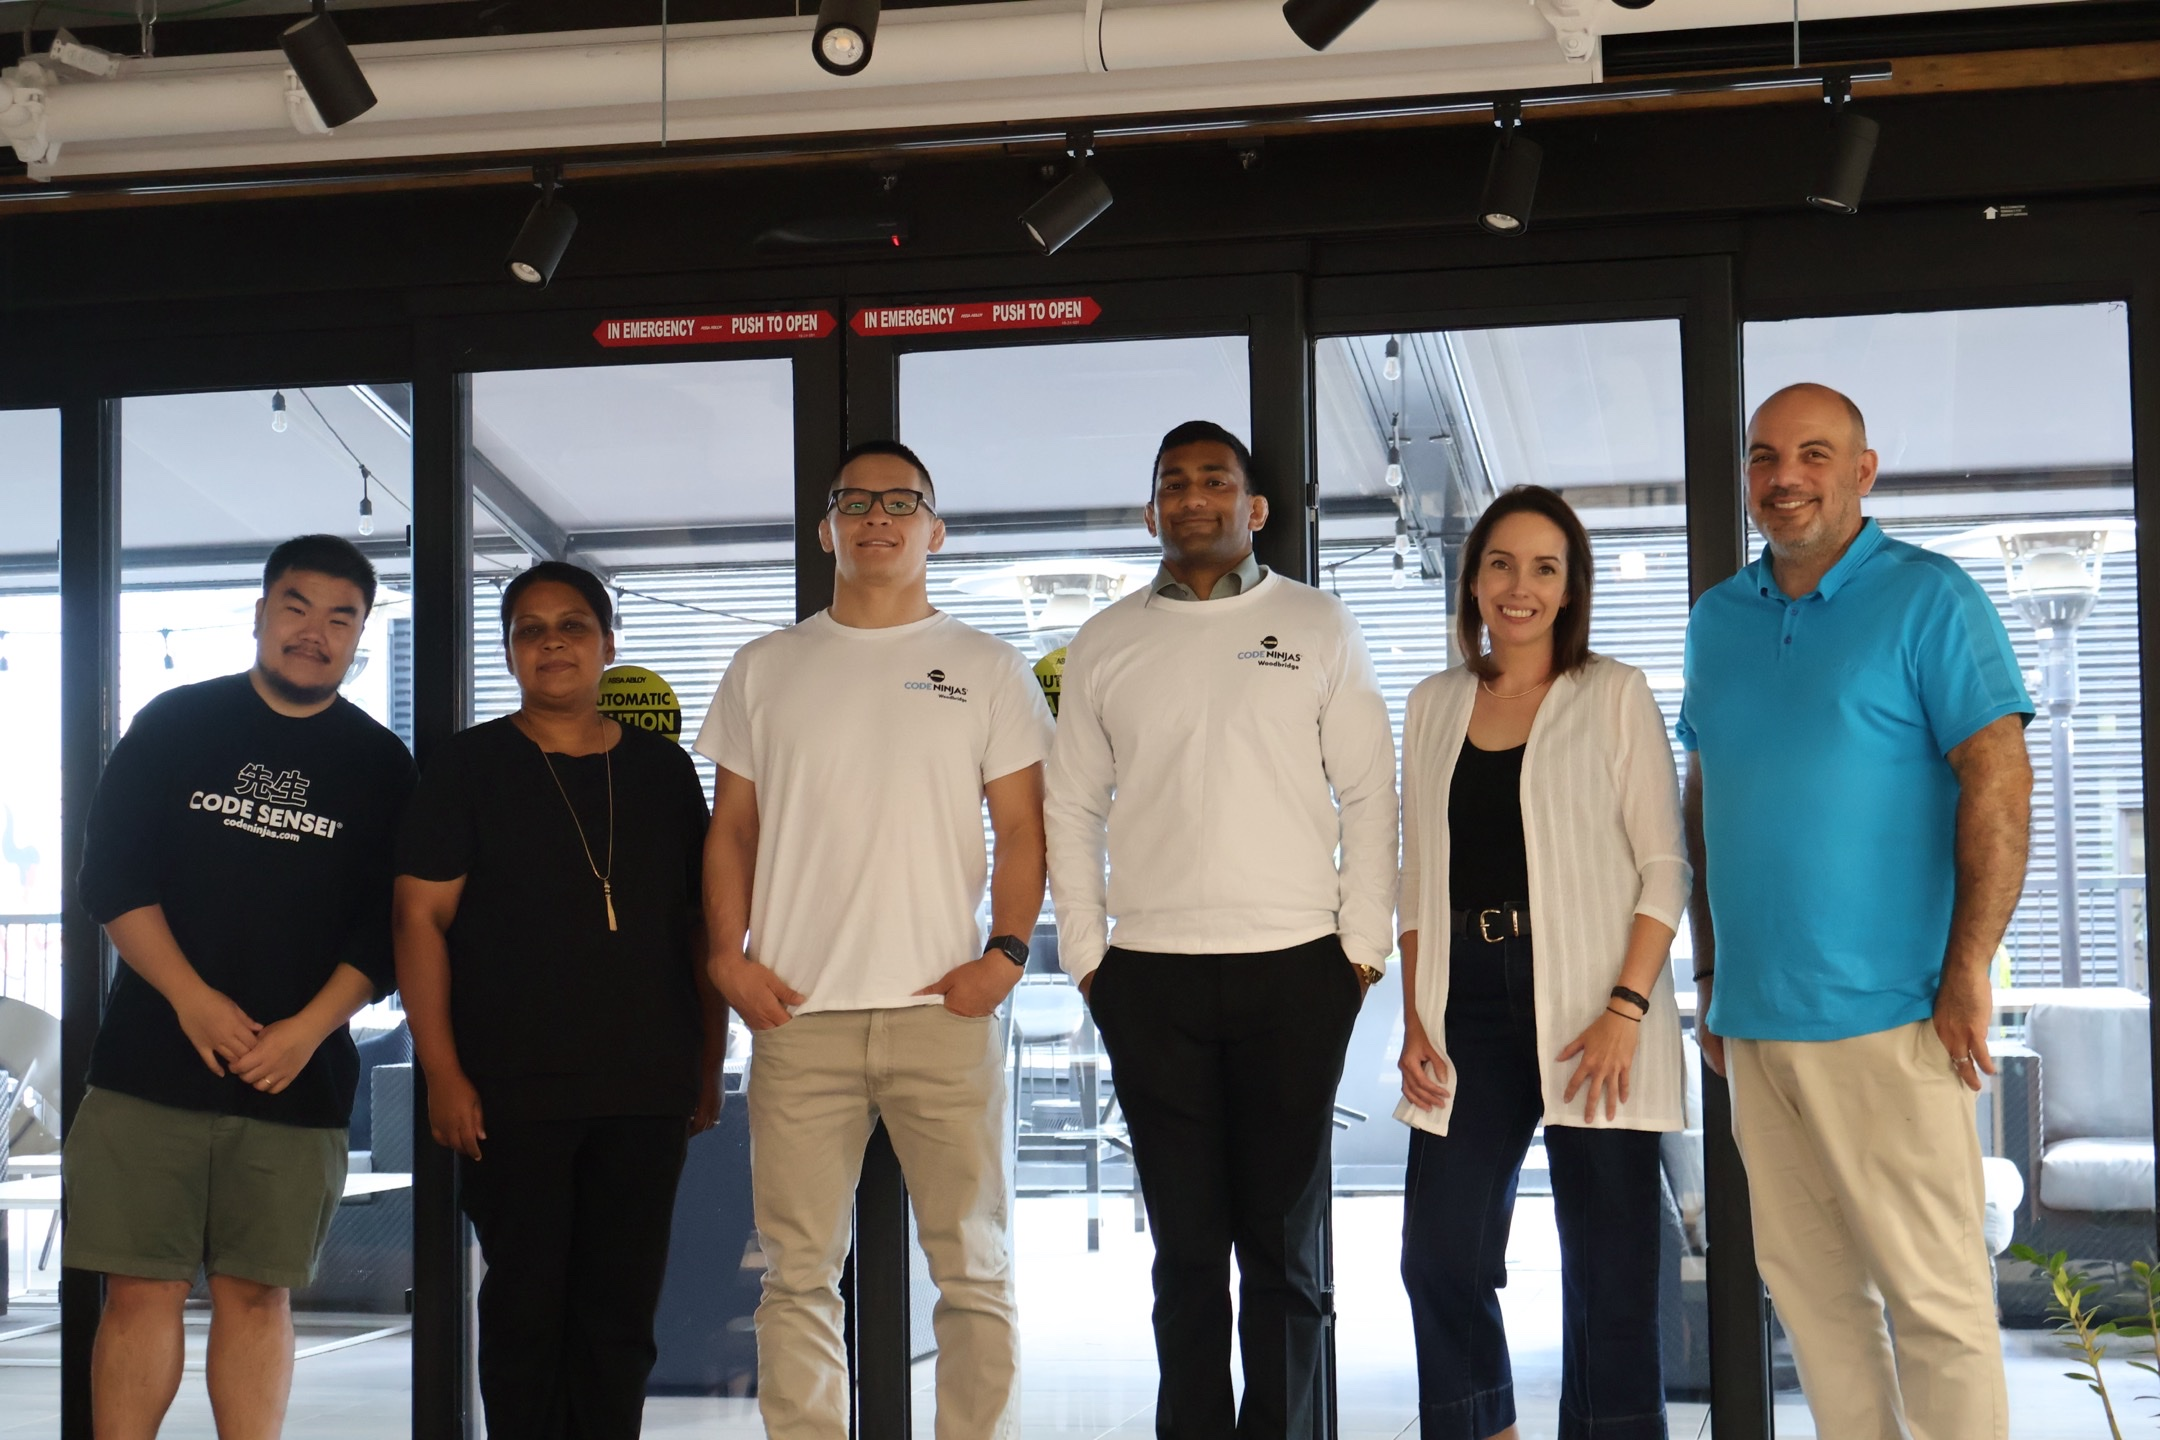
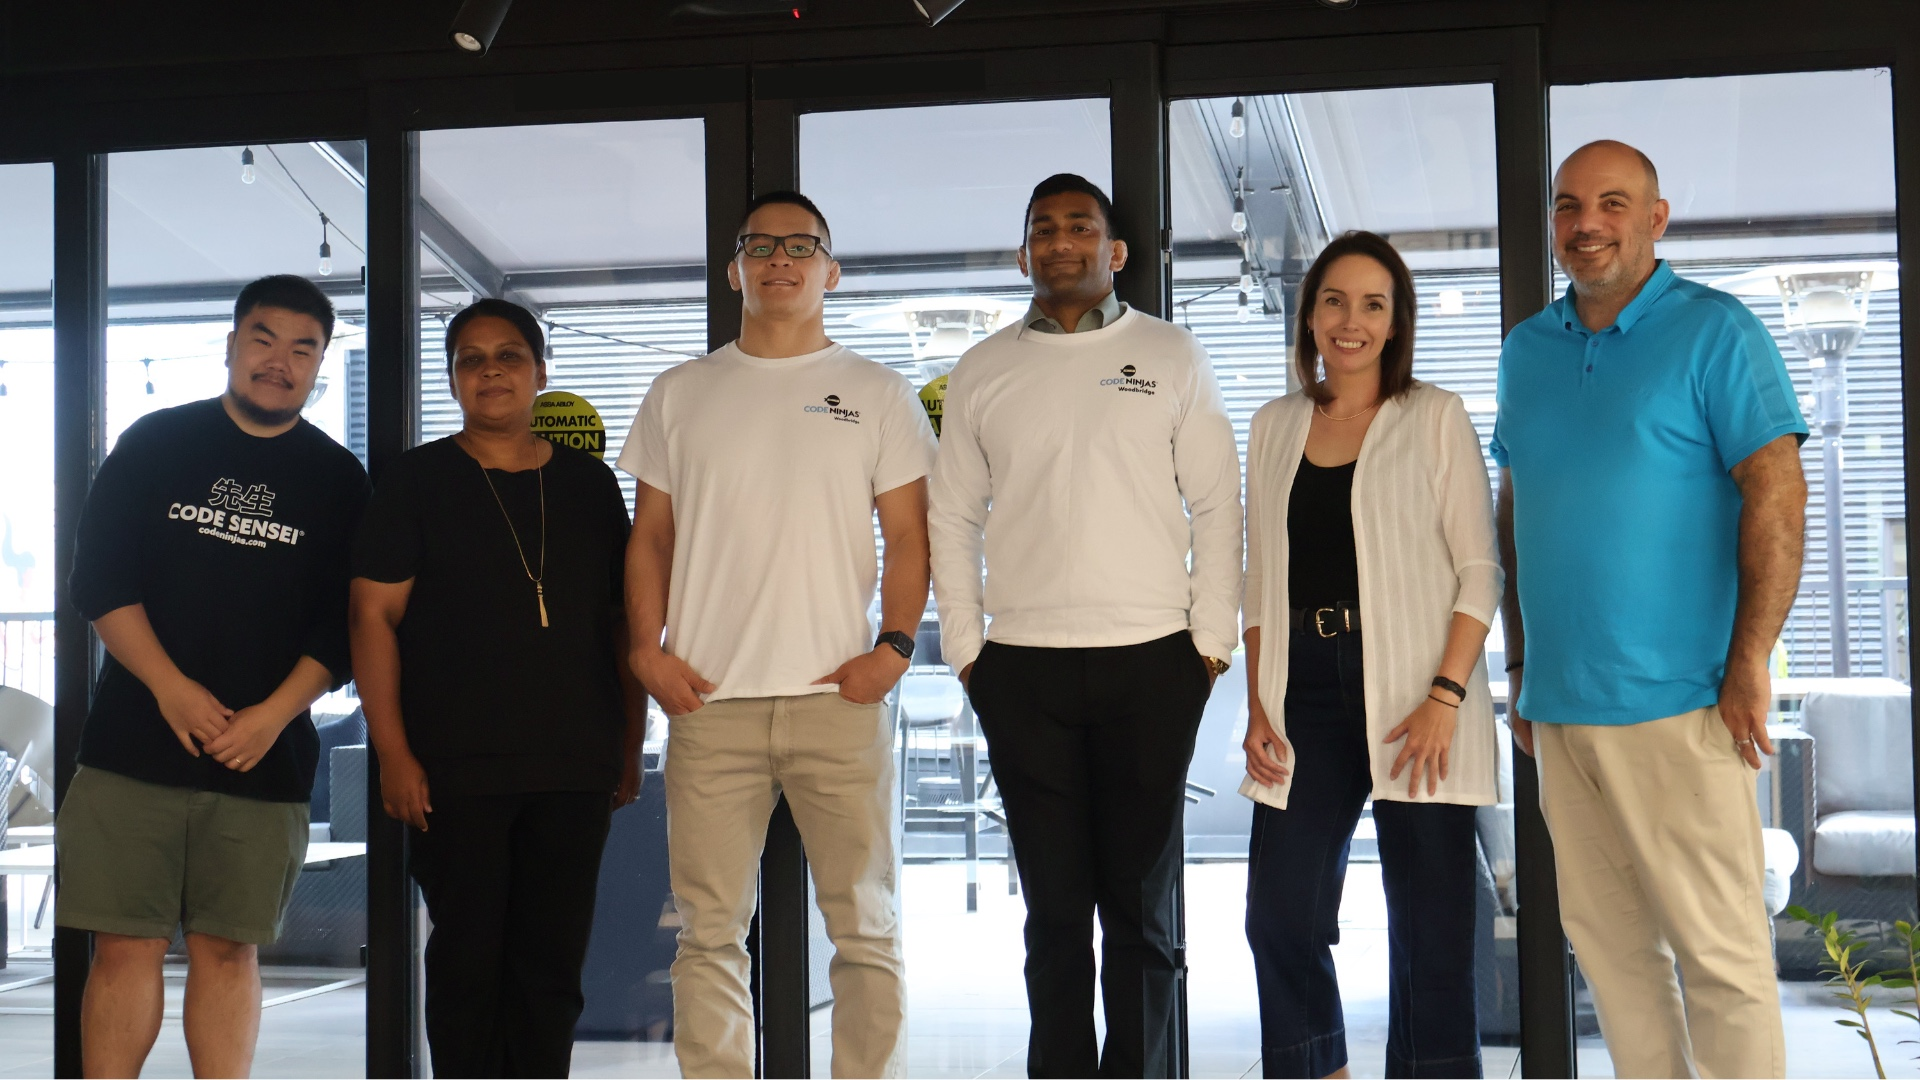
TechTalk: use the supplied 16:9 crop of the group shot
Swaps in the pre-cropped frame the user provided. It is already composed —
headroom above the group, cut below the knee, the ceiling's track lighting and
ductwork gone — so `object-fit: cover` is right here and the hand-framing the
previous pass needed is not. At 1.78 against the panel's 1.93 there are only
~47px to lose, and centring spends them evenly rather than re-deciding a crop
somebody already made deliberately.

Claude-Session: https://claude.ai/code/session_01CaRgcd1PioR1xNEP6x7bJF

diff --git a/src/Stylesheets/TechTalk.css b/src/Stylesheets/TechTalk.css
@@ -39,22 +39,19 @@
   background: #0d1117;
 }
 
-/* Framed by hand rather than by `object-fit: cover`.
- *
- * cover crops symmetrically around whatever object-position says, and this
- * frame does not want a symmetric crop: the ceiling is track lighting and
- * ductwork — the busiest thing in the picture — and the floor is empty. Laying
- * the image out at its natural ratio and sliding it up is one number to tune
- * and shows exactly what it says: about 80px of headroom above the tallest
- * person, cutting below the knee rather than at the ankle. */
+/* The supplied frame is already cropped to 16:9 and composed — headroom above
+ * the group, cut below the knee, the ceiling's track lighting and ductwork
+ * gone. So `cover` is right here and the hand-framing an earlier pass needed
+ * is not: at 1.78 against the panel's 1.93 there are only ~47px to lose, and
+ * centring spends them evenly instead of re-deciding a crop somebody already
+ * made deliberately. */
 .tt-photo img {
-  position: absolute;
-  left: 0;
-  top: calc(-110 * var(--px));
   width: 100%;
-  height: auto;
-  /* the frame is bright and slightly flat; a touch of contrast lets the white
-   * panel below read as a separate surface rather than a continuation */
+  height: 100%;
+  object-fit: cover;
+  object-position: center;
+  /* a touch of contrast so the white panel below reads as a separate surface
+   * rather than a continuation */
   filter: contrast(1.05) saturate(1.03);
 }
 
